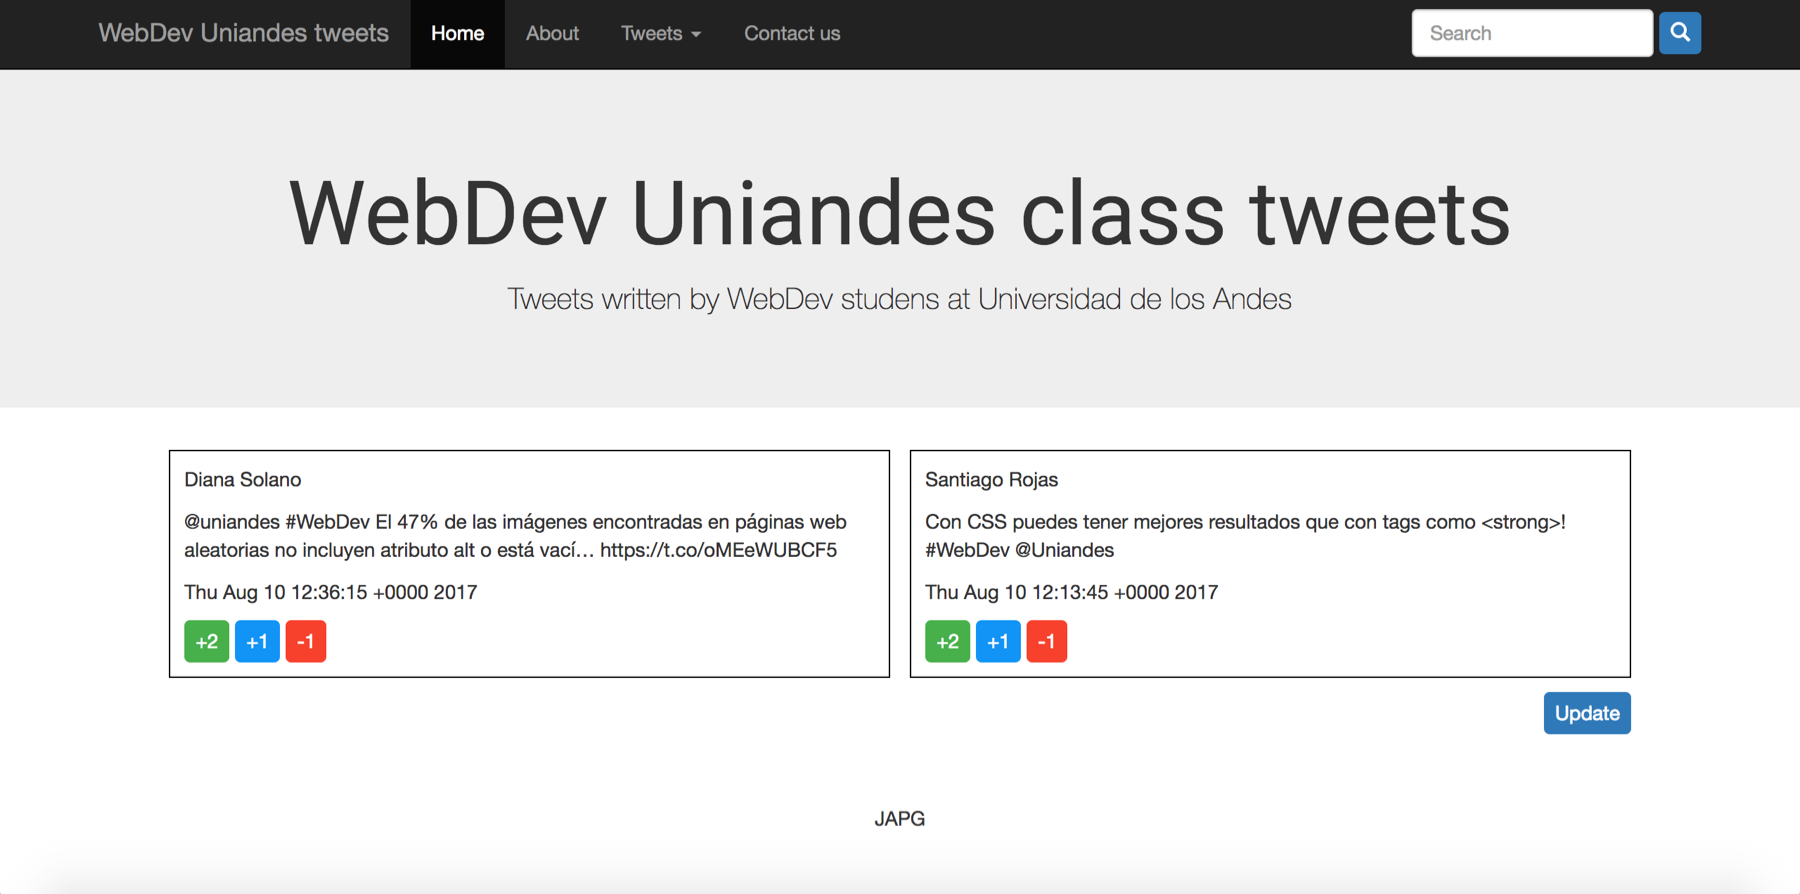
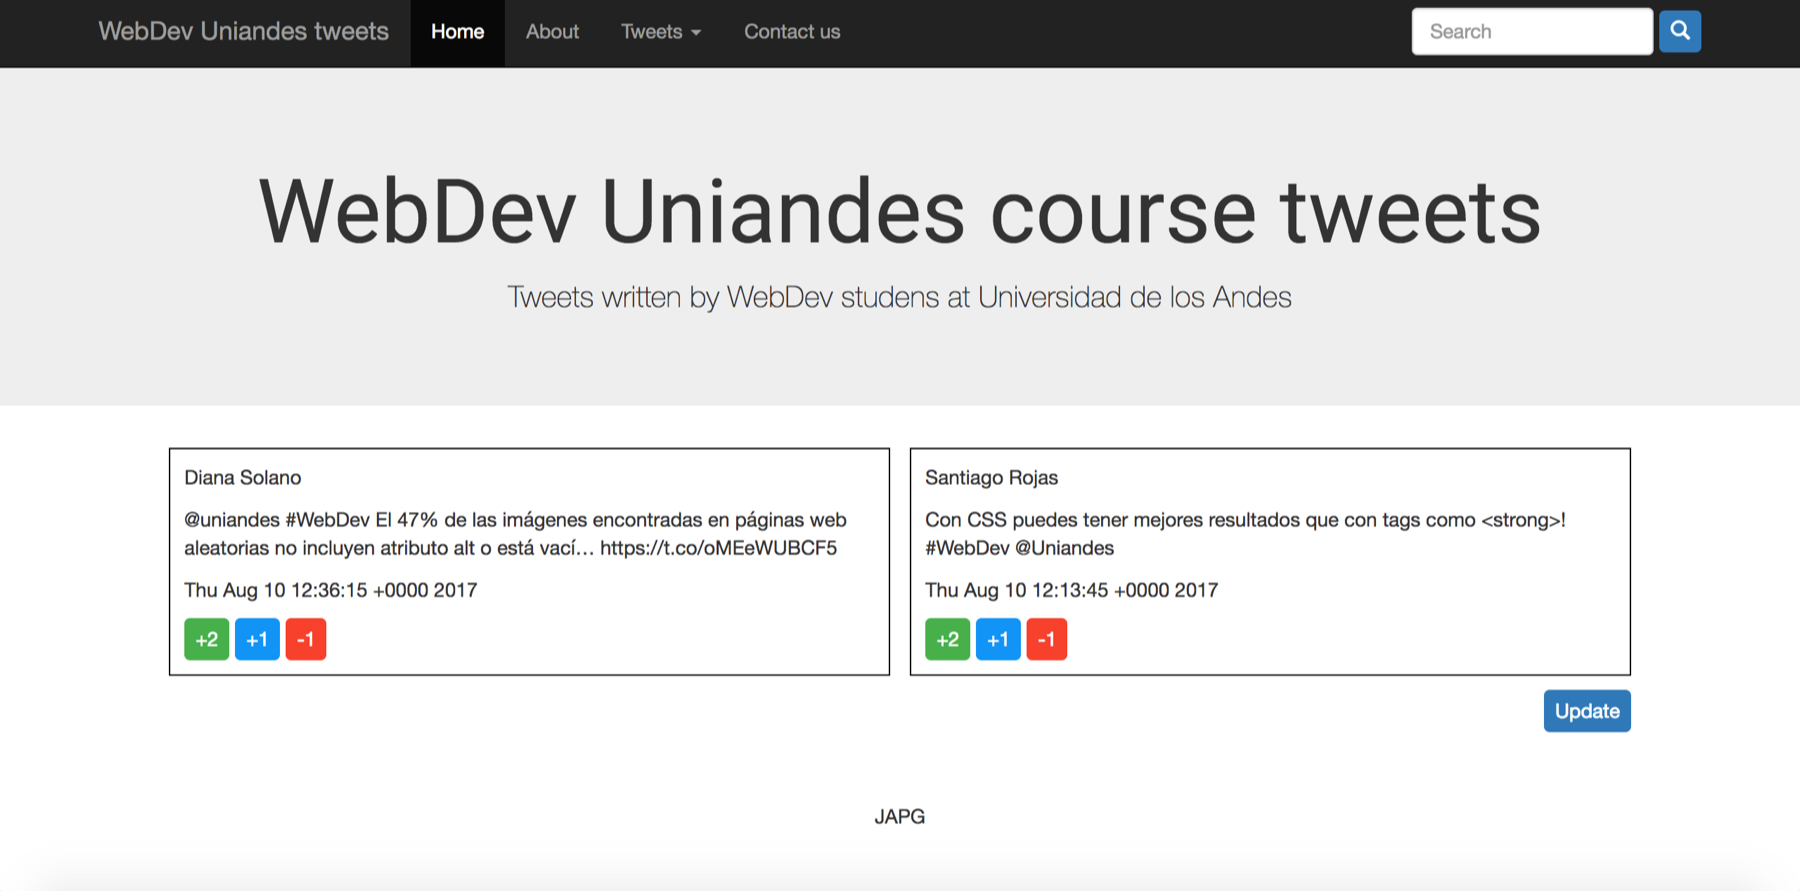
Project reorganized

diff --git a/webDevCourseTweets/webDevTweets.html b/webDevCourseTweets/webDevTweets.html
@@ -15,7 +15,7 @@
   <link href="https://fonts.googleapis.com/css?family=Roboto" rel="stylesheet">
 
   <!-- CSS file -->
-  <link href="css/tweetsWebDev.css" type="text/css" rel="stylesheet">
+  <link href="css/webDevTweets.css" type="text/css" rel="stylesheet">
 
 </head>
 
@@ -67,7 +67,7 @@
 
   <section class="jumbotron">
     <div class="container">
-      <h1>WebDev Uniandes class tweets</h1>
+      <h1>WebDev Uniandes course tweets</h1>
       <p>Tweets written by WebDev studens at Universidad de los Andes</p>
     </div>
   </section>
